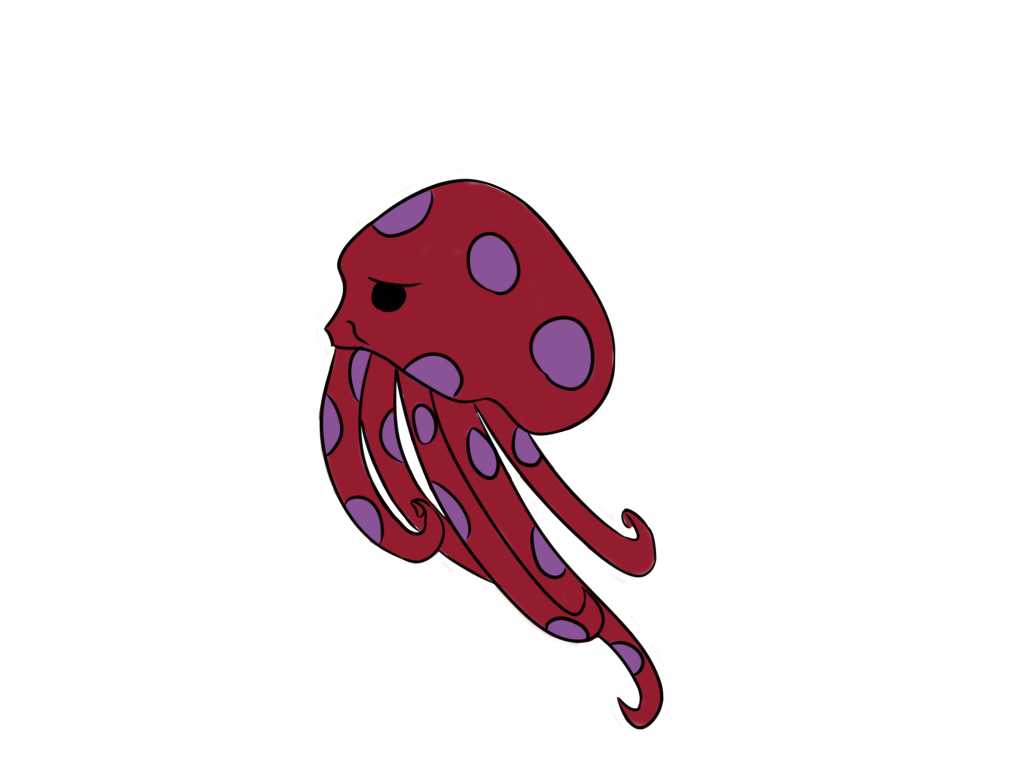
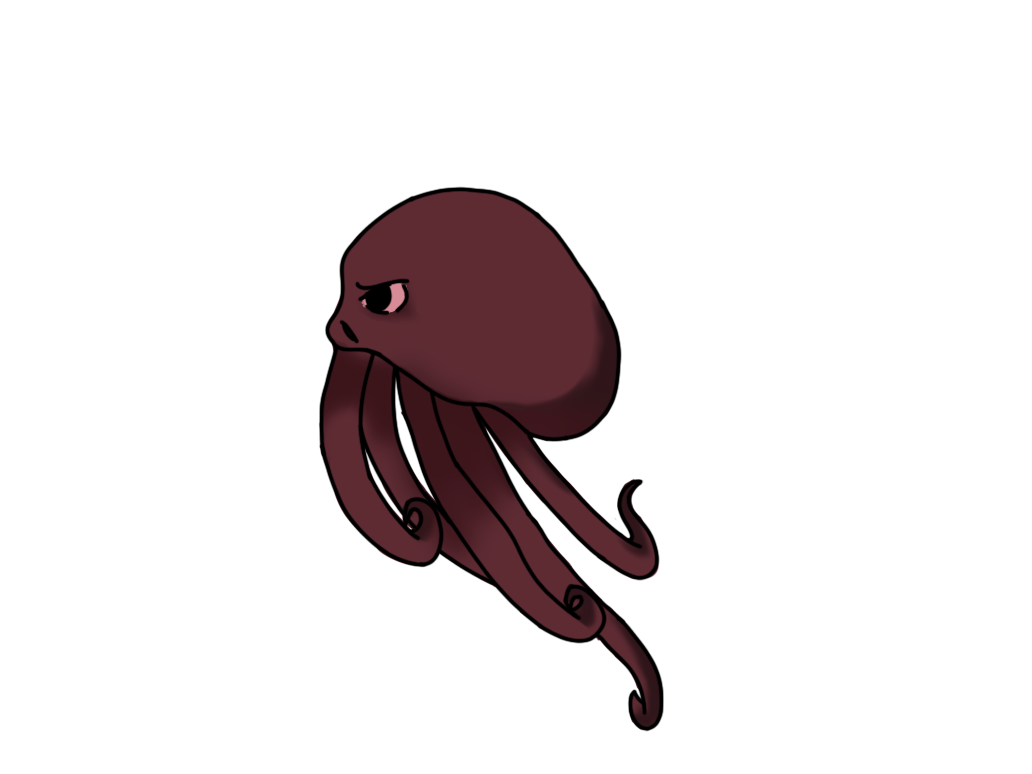
Agregado parcial de animaciones obstaculos

Changed region(s): [[0.3101, 0.2171, 0.6512, 0.9612]]

diff --git a/Proyecto-SumerLab/src/objects/enemies.cpp b/Proyecto-SumerLab/src/objects/enemies.cpp
@@ -12,10 +12,13 @@ namespace Enemies
 	const float SPEED = 400.0f;
 
 	int rememberPos;
+	float frameCounter;
+	float frameSpeed;
 
 	ENEMIES enemies[3];
 
 	Texture2D type[5];
+	Texture2D typeAnim[4];
 
 	static void CollisionWithPlayer();
 
@@ -26,7 +29,13 @@ namespace Enemies
 		Image obstacle3;
 		Image obstacle4;
 		Image obstacle5;
+		Image obstacle1Anim;
+		Image obstacle2Anim;
+		Image obstacle3Anim;
+		Image obstacle5Anim;
 
+		frameCounter = 0;
+		frameSpeed = 2;
 		rememberPos = 0;
 
 		for (int i = 0; i < MAX_ENEMIES; i++)
@@ -52,31 +61,51 @@ namespace Enemies
 		obstacle3 = LoadImage("assets/enemies/obstaculo 3.png");
 		obstacle4 = LoadImage("assets/enemies/obstaculo 4.png");
 		obstacle5 = LoadImage("assets/enemies/obstaculo 5.png");
+		obstacle1Anim = LoadImage("assets/enemies/obstaculo 1-2.png");
+		obstacle2Anim = LoadImage("assets/enemies/obstaculo 2-2.png");
+		obstacle3Anim = LoadImage("assets/enemies/obstaculo 3-2.png");
+		obstacle5Anim = LoadImage("assets/enemies/obstaculo 5-2.png");
 		ImageResize(&obstacle1, WIDTH, HEIGHT);
 		ImageResize(&obstacle2, WIDTH, HEIGHT);
 		ImageResize(&obstacle3, WIDTH, HEIGHT);
 		ImageResize(&obstacle4, WIDTH + 60, HEIGHT);
 		ImageResize(&obstacle5, WIDTH, HEIGHT);
+		ImageResize(&obstacle1Anim, WIDTH, HEIGHT);
+		ImageResize(&obstacle2Anim, WIDTH, HEIGHT);
+		ImageResize(&obstacle3Anim, WIDTH, HEIGHT);
+		ImageResize(&obstacle5Anim, WIDTH, HEIGHT);
 		type[0] = LoadTextureFromImage(obstacle1);
 		type[1] = LoadTextureFromImage(obstacle2);
 		type[2] = LoadTextureFromImage(obstacle3);
 		type[3] = LoadTextureFromImage(obstacle4);
 		type[4] = LoadTextureFromImage(obstacle5);
+		typeAnim[0] = LoadTextureFromImage(obstacle1Anim);
+		typeAnim[1] = LoadTextureFromImage(obstacle2Anim);
+		typeAnim[2] = LoadTextureFromImage(obstacle3Anim);
+		typeAnim[3] = LoadTextureFromImage(obstacle5Anim);
 
 		UnloadImage(obstacle1);
 		UnloadImage(obstacle2);
 		UnloadImage(obstacle3);
 		UnloadImage(obstacle4);
 		UnloadImage(obstacle5);
+		UnloadImage(obstacle1Anim);
+		UnloadImage(obstacle2Anim);
+		UnloadImage(obstacle3Anim);
+		UnloadImage(obstacle5Anim);
 	}
 
 	void Unload()
 	{
-		UnloadTexture(type[0]);
-		UnloadTexture(type[1]);
-		UnloadTexture(type[2]);
-		UnloadTexture(type[3]);
-		UnloadTexture(type[4]);
+		for (int i = 0; i < 5; i++)
+		{
+			UnloadTexture(type[i]);
+
+			if (i < 4)
+			{
+				UnloadTexture(typeAnim[i]);
+			}
+		}
 	}
 
 	void Move()
@@ -135,24 +164,55 @@ namespace Enemies
 
 		for (int i = 0; i < MAX_ENEMIES; i++)
 		{
+			frameCounter++;
+
 			if (enemies[i].aggressive == true)
 			{
-
-				if (enemies[i].numTexture == 3)
+				if (frameCounter >= (60/frameSpeed))
 				{
-					DrawTexture(type[enemies[i].numTexture], static_cast<int>(enemies[i].body.x - 85), static_cast<int>(enemies[i].body.y), WHITE);
-				}
-				else if (enemies[i].numTexture == 2)
-				{
-					DrawTexture(type[enemies[i].numTexture], static_cast<int>(enemies[i].body.x - 45), static_cast<int>(enemies[i].body.y), WHITE);
-				}
-				else if (enemies[i].numTexture == 4)
-				{
-					DrawTexture(type[enemies[i].numTexture], static_cast<int>(enemies[i].body.x - 55), static_cast<int>(enemies[i].body.y), WHITE);
-				}
-				else
-				{
+					/*
+					if (enemies[i].numTexture == 3)
+					{
+						DrawTexture(type[enemies[i].numTexture], static_cast<int>(enemies[i].body.x - 85), static_cast<int>(enemies[i].body.y), WHITE);
+					}
+					else if (enemies[i].numTexture == 2)
+					{
+						DrawTexture(type[enemies[i].numTexture], static_cast<int>(enemies[i].body.x - 45), static_cast<int>(enemies[i].body.y), WHITE);
+					}
+					else if (enemies[i].numTexture == 4)
+					{
+						DrawTexture(type[enemies[i].numTexture], static_cast<int>(enemies[i].body.x - 55), static_cast<int>(enemies[i].body.y), WHITE);
+					}
+					else
+					{
+						DrawTexture(type[enemies[i].numTexture], static_cast<int>(enemies[i].body.x), static_cast<int>(enemies[i].body.y), WHITE);
+					}
+					*/
 					DrawTexture(type[enemies[i].numTexture], static_cast<int>(enemies[i].body.x), static_cast<int>(enemies[i].body.y), WHITE);
+
+
+					frameCounter = 0;
+				}
+				else if (frameCounter <= (60/frameSpeed))
+				{
+					/*
+					if (enemies[i].numTexture == 2)
+					{
+						DrawTexture(typeAnim[2], static_cast<int>(enemies[i].body.x - 45), static_cast<int>(enemies[i].body.y), WHITE);
+					}
+					if (enemies[i].numTexture == 4)
+					{
+						DrawTexture(typeAnim[3], static_cast<int>(enemies[i].body.x - 55), static_cast<int>(enemies[i].body.y), WHITE);
+					}
+					*/
+					if (enemies[i].numTexture == 3)
+					{
+						DrawTexture(type[enemies[i].numTexture], static_cast<int>(enemies[i].body.x), static_cast<int>(enemies[i].body.y), WHITE);
+					}
+					else
+					{
+						DrawTexture(typeAnim[enemies[i].numTexture], static_cast<int>(enemies[i].body.x), static_cast<int>(enemies[i].body.y), WHITE);
+					}
 				}
 			}
 		}
